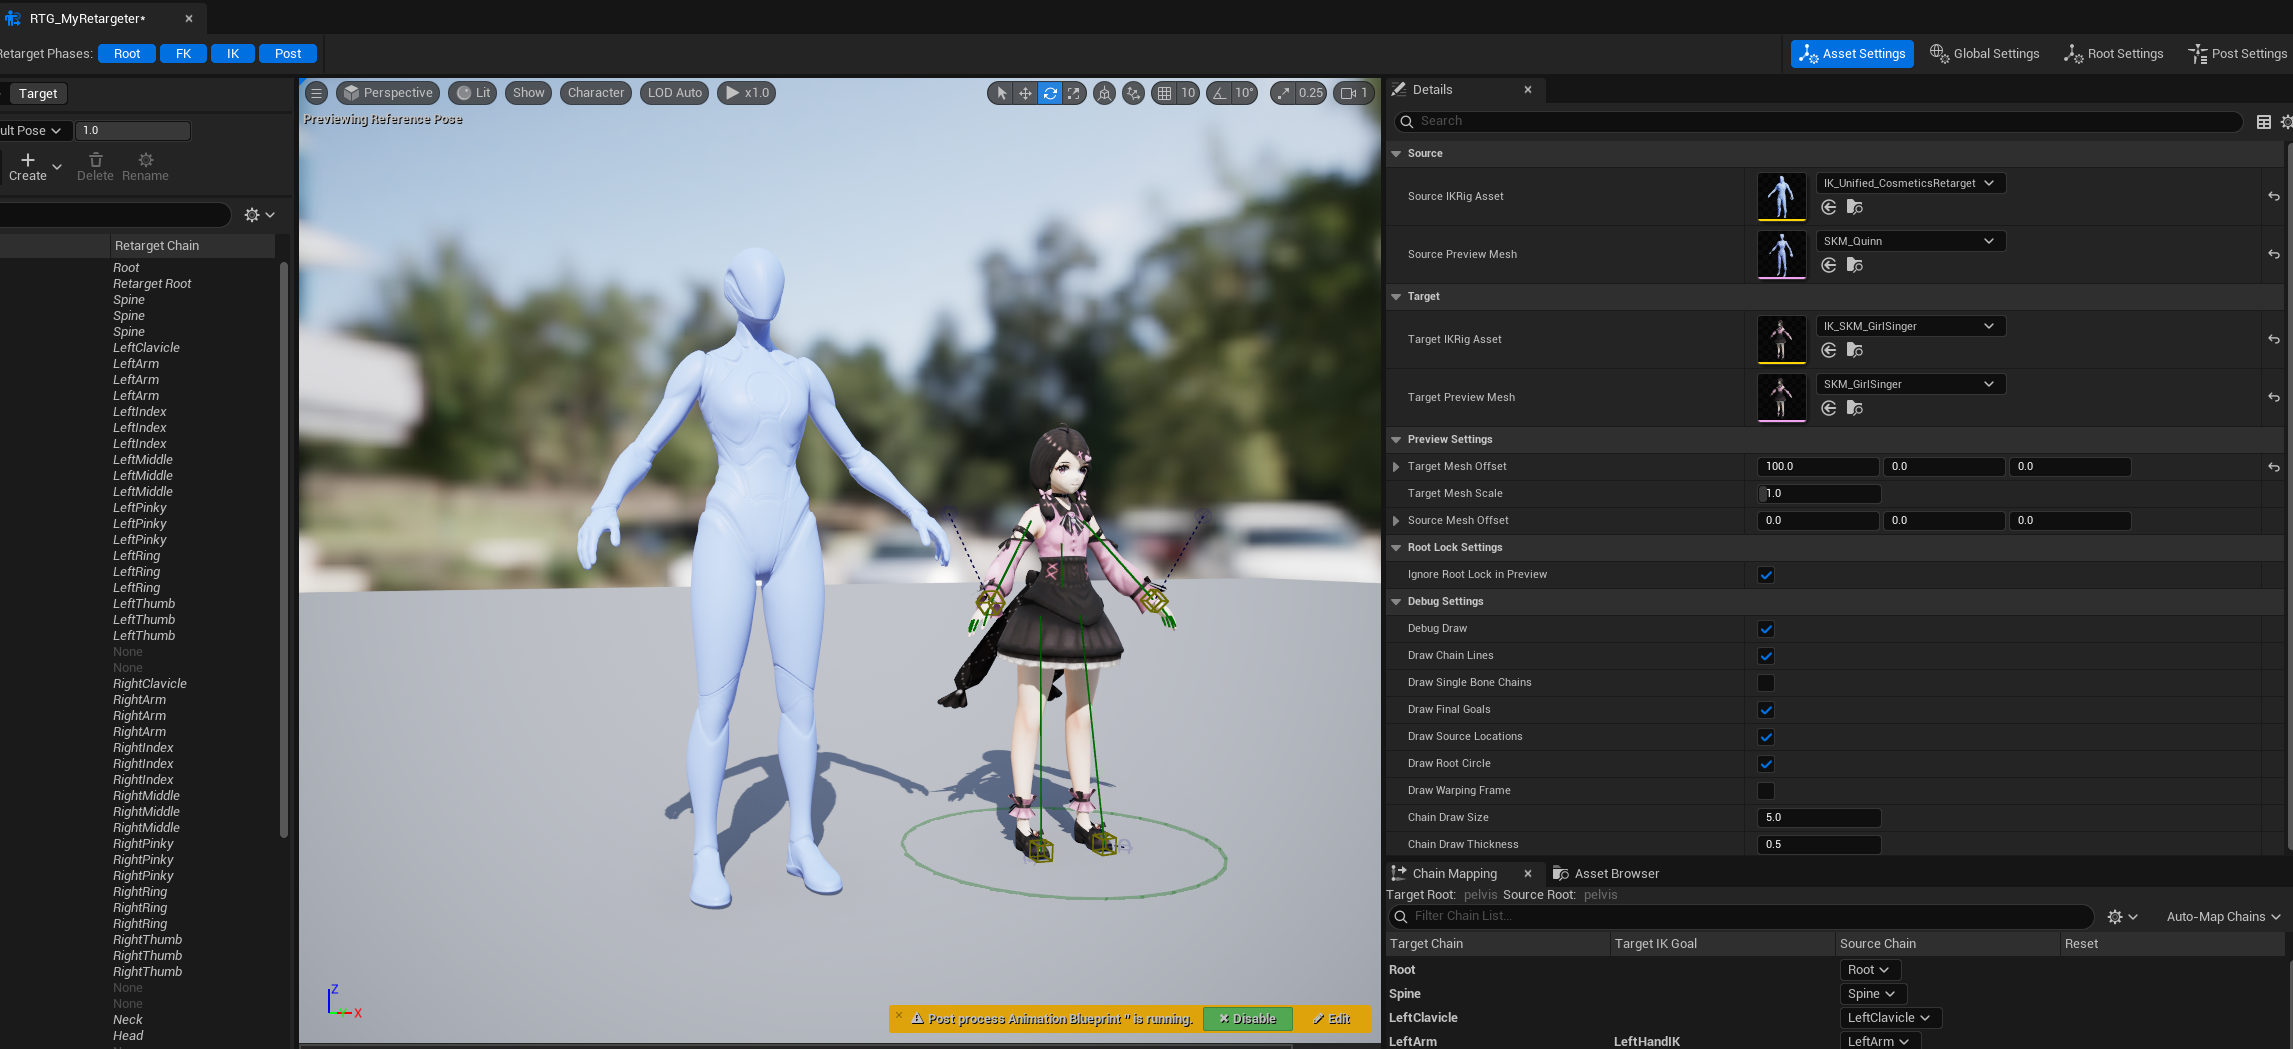
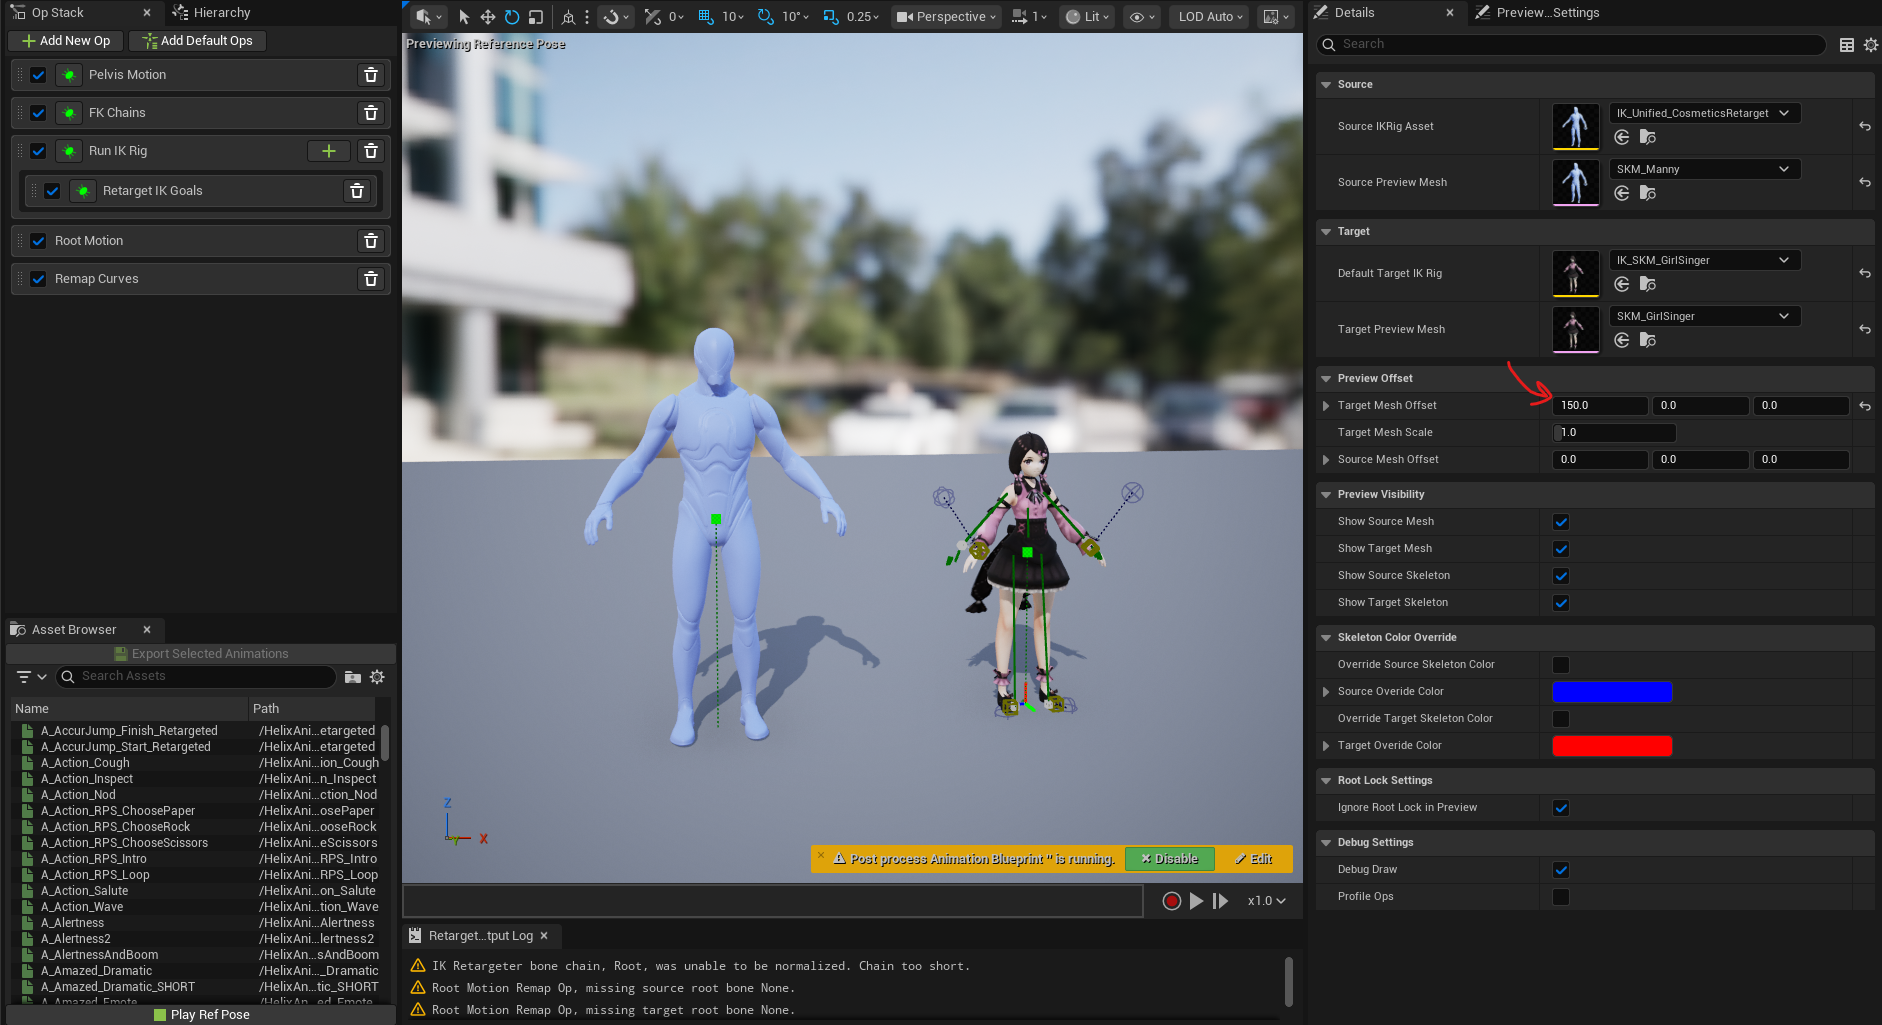
Update ik retarget section with new screenshots and steps

diff --git a/docs/tutorials/HelixCharacterCreator/cc_characters.md b/docs/tutorials/HelixCharacterCreator/cc_characters.md
@@ -75,10 +75,6 @@ If your character mesh is using same skeleton with Unreal Engine 5 Manny/Quinn a
 If your character mesh is using a custom rig (including old Unreal Engine 4 mannequin skeleton), it will need additional steps to set-up an IK Rig retageter to get it compatible with HELIX characters.
 
 /// warning | Warning
-Please note that runtime retargeting has an additional CPU cost per character rendered on screen. If you're planning your mesh to be used by mass number of characters in your world, please prefer rigging it with Unreal Engine 5 skeleton and follow the steps in [4.1](https://development.helix-documentation.pages.dev/tutorials/HelixCharacterCreator/cc_characters/#31-unreal-engine-5-rig-based-character-mesh) to directly use it without need of retargeting.
-///
-
-/// warning | Warning
 Ensure all of your skeleton bones have unit scale (1.0). If your character bones were scaled inside Maya/Blender during rigging (especially the root bone), this is not supported and your custom mesh will fail to retarget animations.
 ///
 
@@ -108,11 +104,15 @@ Ensure all of your skeleton bones have unit scale (1.0). If your character bones
 
     ![image.png](cc_characters_assets/u_5.png)
 
-6. Select `IK_Unified_CosmeticsRetarget` as **Source IKRig Asset**. Select either `SKM_Manny` or `SKM_Quinn` as **Source Preview Mesh** according to closest one to your custom mesh proportions for better results. This property will define the source skeleton we'll retarget the animations from during runtime.
+6. Select `IK_Unified_CosmeticsRetarget` as **Source IKRig Asset**. Select either `SKM_Manny` or `SKM_Quinn` as **Source Preview Mesh** according to closest one to your custom mesh proportions for better results. This property will define the source skeleton we'll retarget the animations from during runtime. When asked to assign IK to all ops, click **Assign** button on the prompt.
+
+    ![image.png](cc_characters_assets/5.7-ikrig-1.png)
 
     ![image.png](cc_characters_assets/u_6.png)
 
-7. Select the IK Rig asset you've just created on previous steps as **Target IKRig Asset**. This property will define the target skeleton we'll retarget the animations to during runtime.
+7. Select the IK Rig asset you've just created on previous steps as **Target IKRig Asset**. This property will define the target skeleton we'll retarget the animations to during runtime. When asked to assign IK to all ops, click **Assign** button on the prompt again.
+
+    ![image.png](cc_characters_assets/5.7-ikrig-1.png)
 
     ![image.png](cc_characters_assets/u_7.png)
 
@@ -120,17 +120,27 @@ Ensure all of your skeleton bones have unit scale (1.0). If your character bones
 
     ![image.png](cc_characters_assets/u_8.png)
 
-9. On the bottom right panel, **Chain Mapping** tab should automatically match your IK Rig asset bone chains with each other. Ensure each chain is mapped correctly. If there are missing chain assignments, assign the the missing chains manually.
+9. On the left **Op Stack** panel, go into **Pelvis Motion** settings. Ensure pelvis bone fields are correctly assigned to `pelvis` bone for both target & source rig.
+
+10. On the left **Op Stack** panel, go into **FK Chains** settings. **Retarget Chain Settings** section should automatically match your IK Rig asset bone chains with each other. Ensure each chain is mapped correctly. If there are missing chain assignments, assign the the missing chains manually, or use the **Auto-Map Chains** button to try automatically matching each chain.
 
     ![image.png](cc_characters_assets/u_9.png)
 
-10. To ensure your IK Retargeter works correctly, go to **Asset Browser** tab on bottom right panel, and play one of the available animations. If your custom character plays the animations without any visual issues, this means your IK Retargeter setup is ready!
+11. On the left **Op Stack** panel, go into **IK Chains** settings. **Solve IK Goal Settings** section should automatically match your IK Rig asset IK goals with each other. Ensure goal is mapped correctly. If there are missing goal assignments, assign the the missing goal manually, or use the **Auto-Map Chains** button to try automatically matching each goal.
+
+    ![image.png](cc_characters_assets/u_9_2.png)
+
+12. On the left **Op Stack** panel, go into **Root Motion** settings. Assing root bones of both rigs to **Source Root** and **Target Root** fields. Assign your custom character rig's pelvis bone to **Root Motion Source** field.
+
+    ![image.png](cc_characters_assets/u_9_3.png)
+
+13. To ensure your IK Retargeter works correctly, go to **Asset Browser** tab on bottom left panel, and play one of the available animations. If your custom character plays the animations without any visual issues, this means your IK Retargeter setup is ready!
 
     ![image.png](cc_characters_assets/u_10.gif)
 
-11. If there are issues with retargeting results, you might need to further tweak your bone chains in your IK Rig and IK Retargeter assets. Please check [IK Rig Retargeting Documentation](https://dev.epicgames.com/documentation/en-us/unreal-engine/ik-rig-animation-retargeting-in-unreal-engine?application_version=5.5) for more information.
+14. If there are issues with retargeting results, you might need to further tweak your bone chains in your IK Rig and IK Retargeter assets. Please check [IK Rig Retargeting Documentation](https://dev.epicgames.com/documentation/en-us/unreal-engine/ik-rig-animation-retargeting-in-unreal-engine?application_version=5.7) for more information.
 
-12. Go into your skeletal mesh asset and find **Asset User Data** property. Click **+** symbol to create a new asset user data instance.
+15. Go into your skeletal mesh asset and find **Asset User Data** property. Click **+** symbol to create a new asset user data instance.
 
     ![image.png](cc_characters_assets/u_11.png)
 
@@ -138,19 +148,19 @@ Ensure all of your skeleton bones have unit scale (1.0). If your character bones
     Do not confuse **Asset User Data** with **Asset User Data Editor Only**. They are separate properties and only the former should be modified.
     ///
 
-13. Select `HELIX Cosmetics Body Mesh Asset User Data` from the dropdown menu. This asset is used to define how your mesh should be used with HELIX characters during runtime.
+16. Select `HELIX Cosmetics Body Mesh Asset User Data` from the dropdown menu. This asset is used to define how your mesh should be used with HELIX characters during runtime.
 
     ![image.png](cc_characters_assets/u_12.png)
 
-14. Assign the IK Retargeter asset you've created on the previous steps into **Retargeter** field. Write down approximate body height of your character, in Unreal units (cm). This value will help animation retargeting and also improve first person camera behavior on your custom mesh.
+17. Assign the IK Retargeter asset you've created on the previous steps into **Retargeter** field. Write down approximate body height of your character, in Unreal units (cm). This value will help animation retargeting and also improve first person camera behavior on your custom mesh.
 
     ![image.png](cc_characters_assets/u_13.png)
 
-15. If you need your character body mesh to get retargeted differently during first person view mode, you can create another IK Retargeter asset and assign into **First Person Retargeter** field.
+18. If you need your character body mesh to get retargeted differently during first person view mode, you can create another IK Retargeter asset and assign into **First Person Retargeter** field.
 
-16. If your character body mesh has a neck & head section which can obscure camera during first person view mode, add the bone names covering those mesh sections into **First Person Bone Hide List** field. Usually, you should put names such as `head`, `neck_01`, `neck_02` etc. in this list.
+19. If your character body mesh has a neck & head section which can obscure camera during first person view mode, add the bone names covering those mesh sections into **First Person Bone Hide List** field. Usually, you should put names such as `head`, `neck_01`, `neck_02` etc. in this list.
 
-17. Your mesh should be ready for runtime retargeting after following those steps.
+20. Your mesh should be ready for runtime retargeting after following those steps.
 
 ---
 
